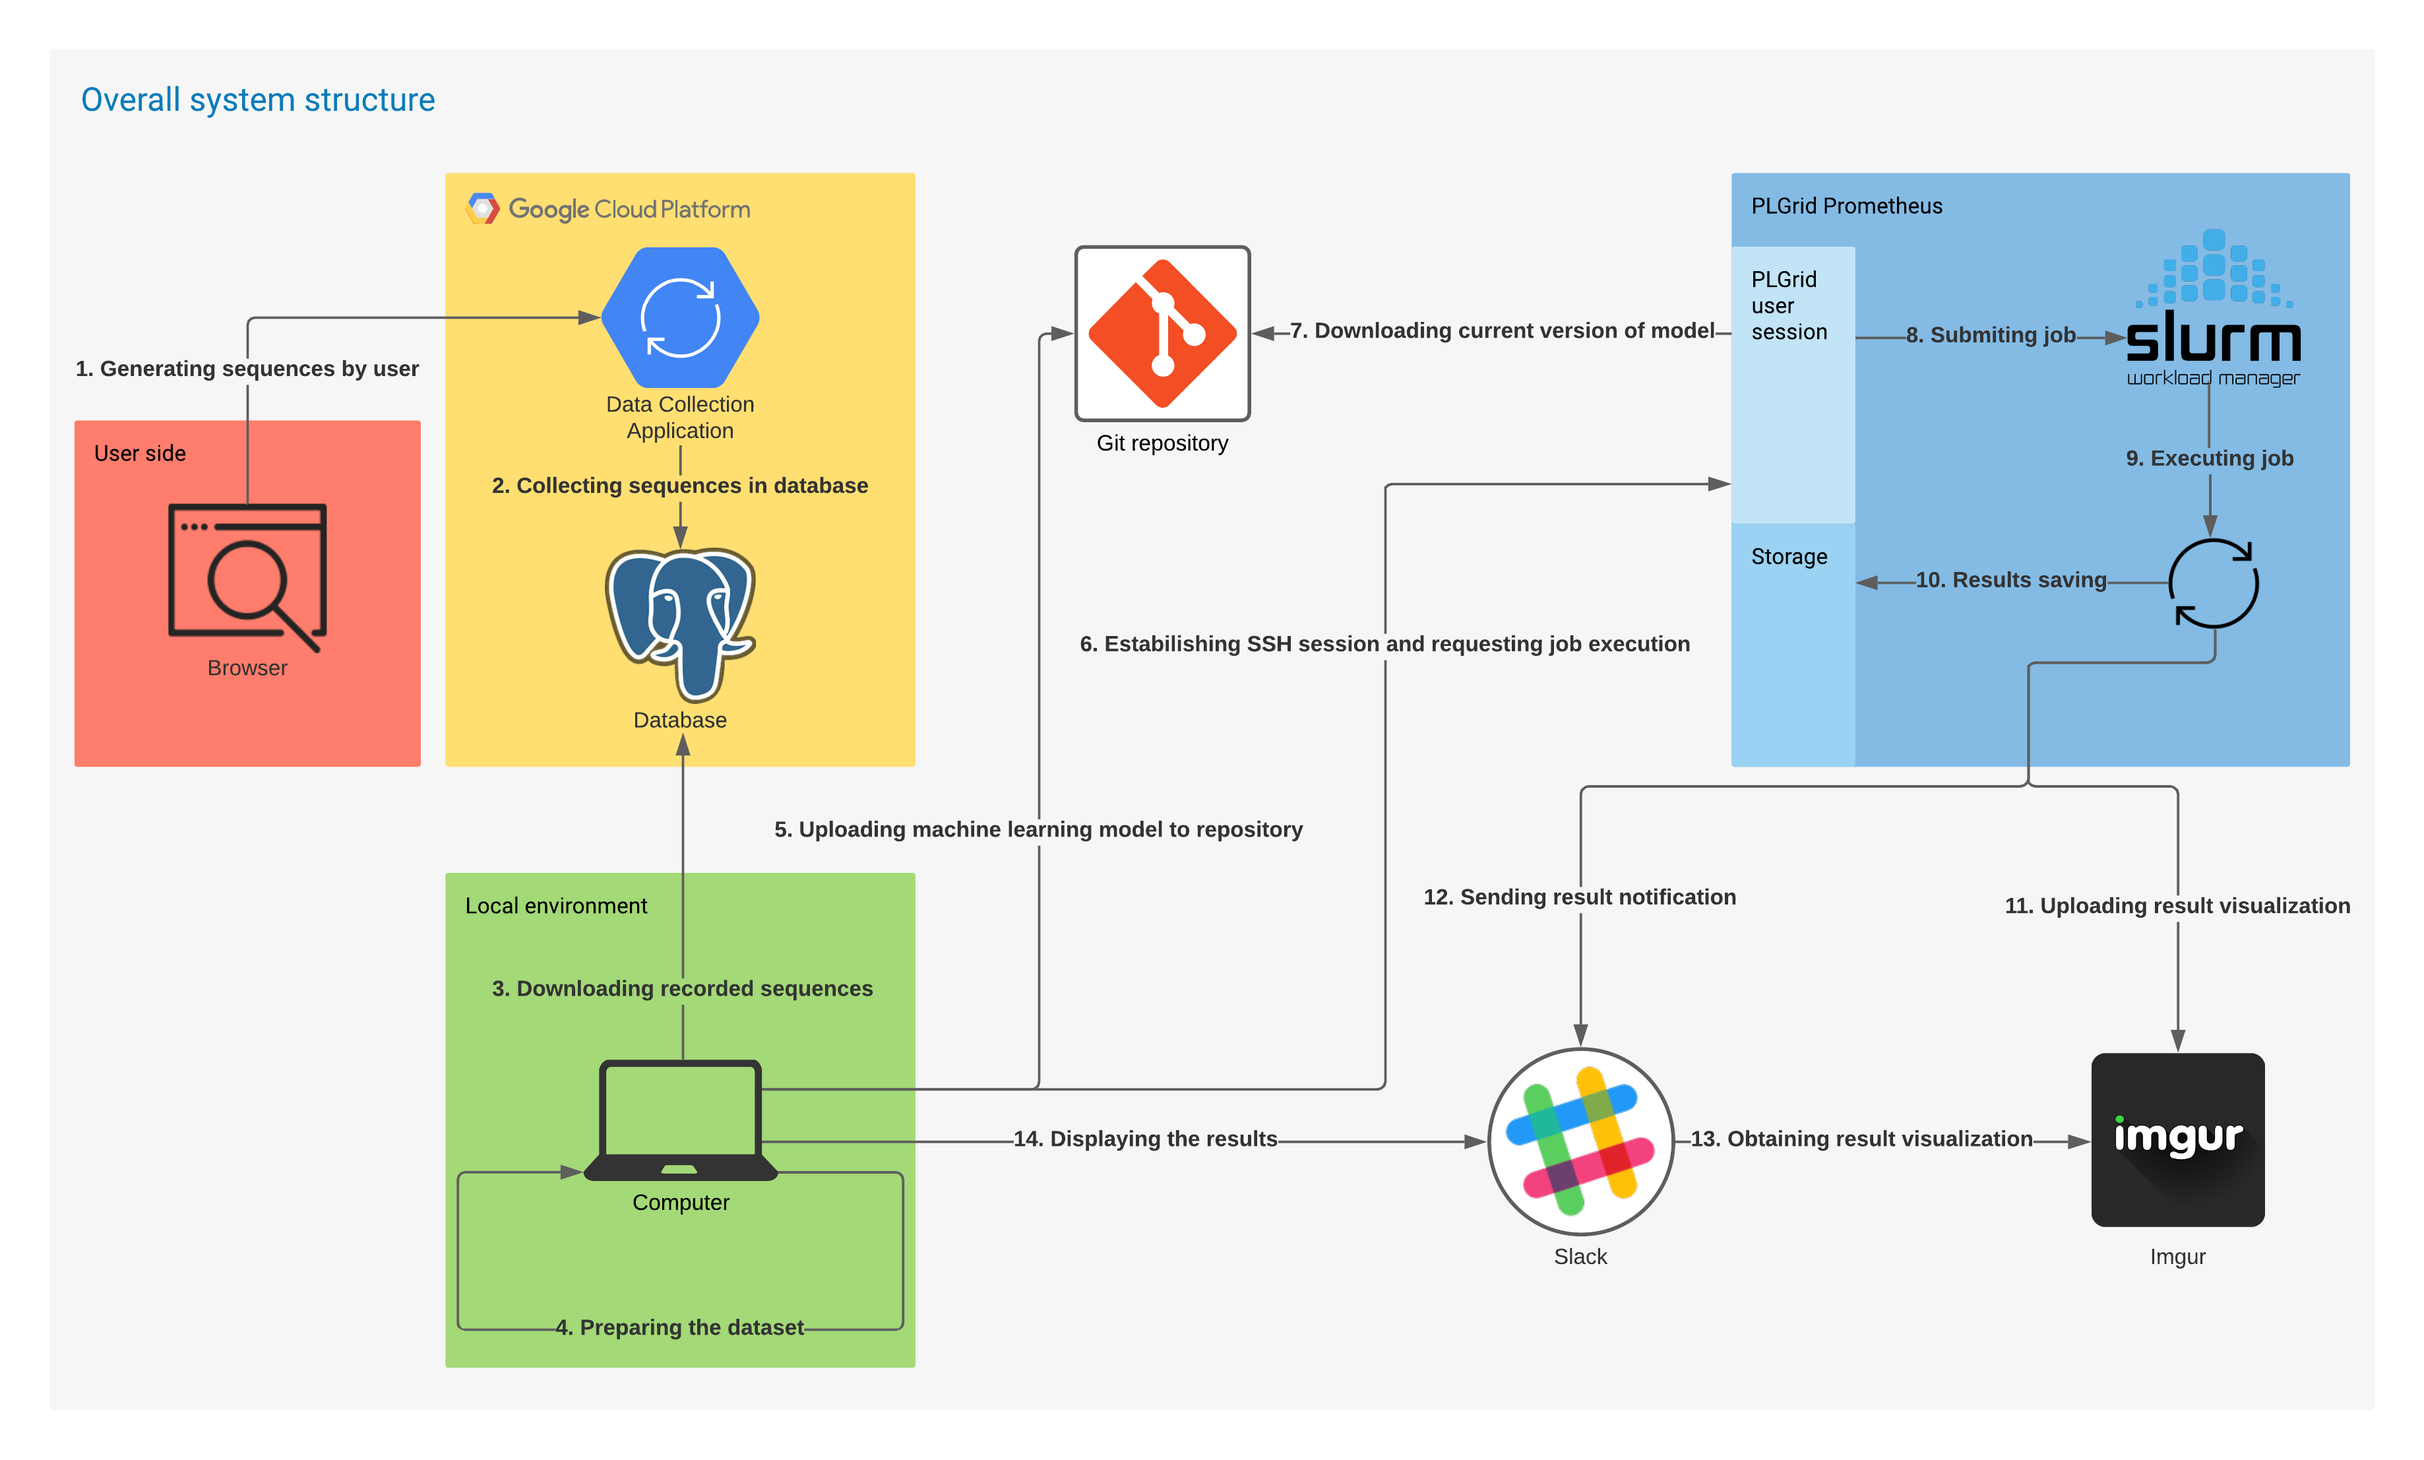
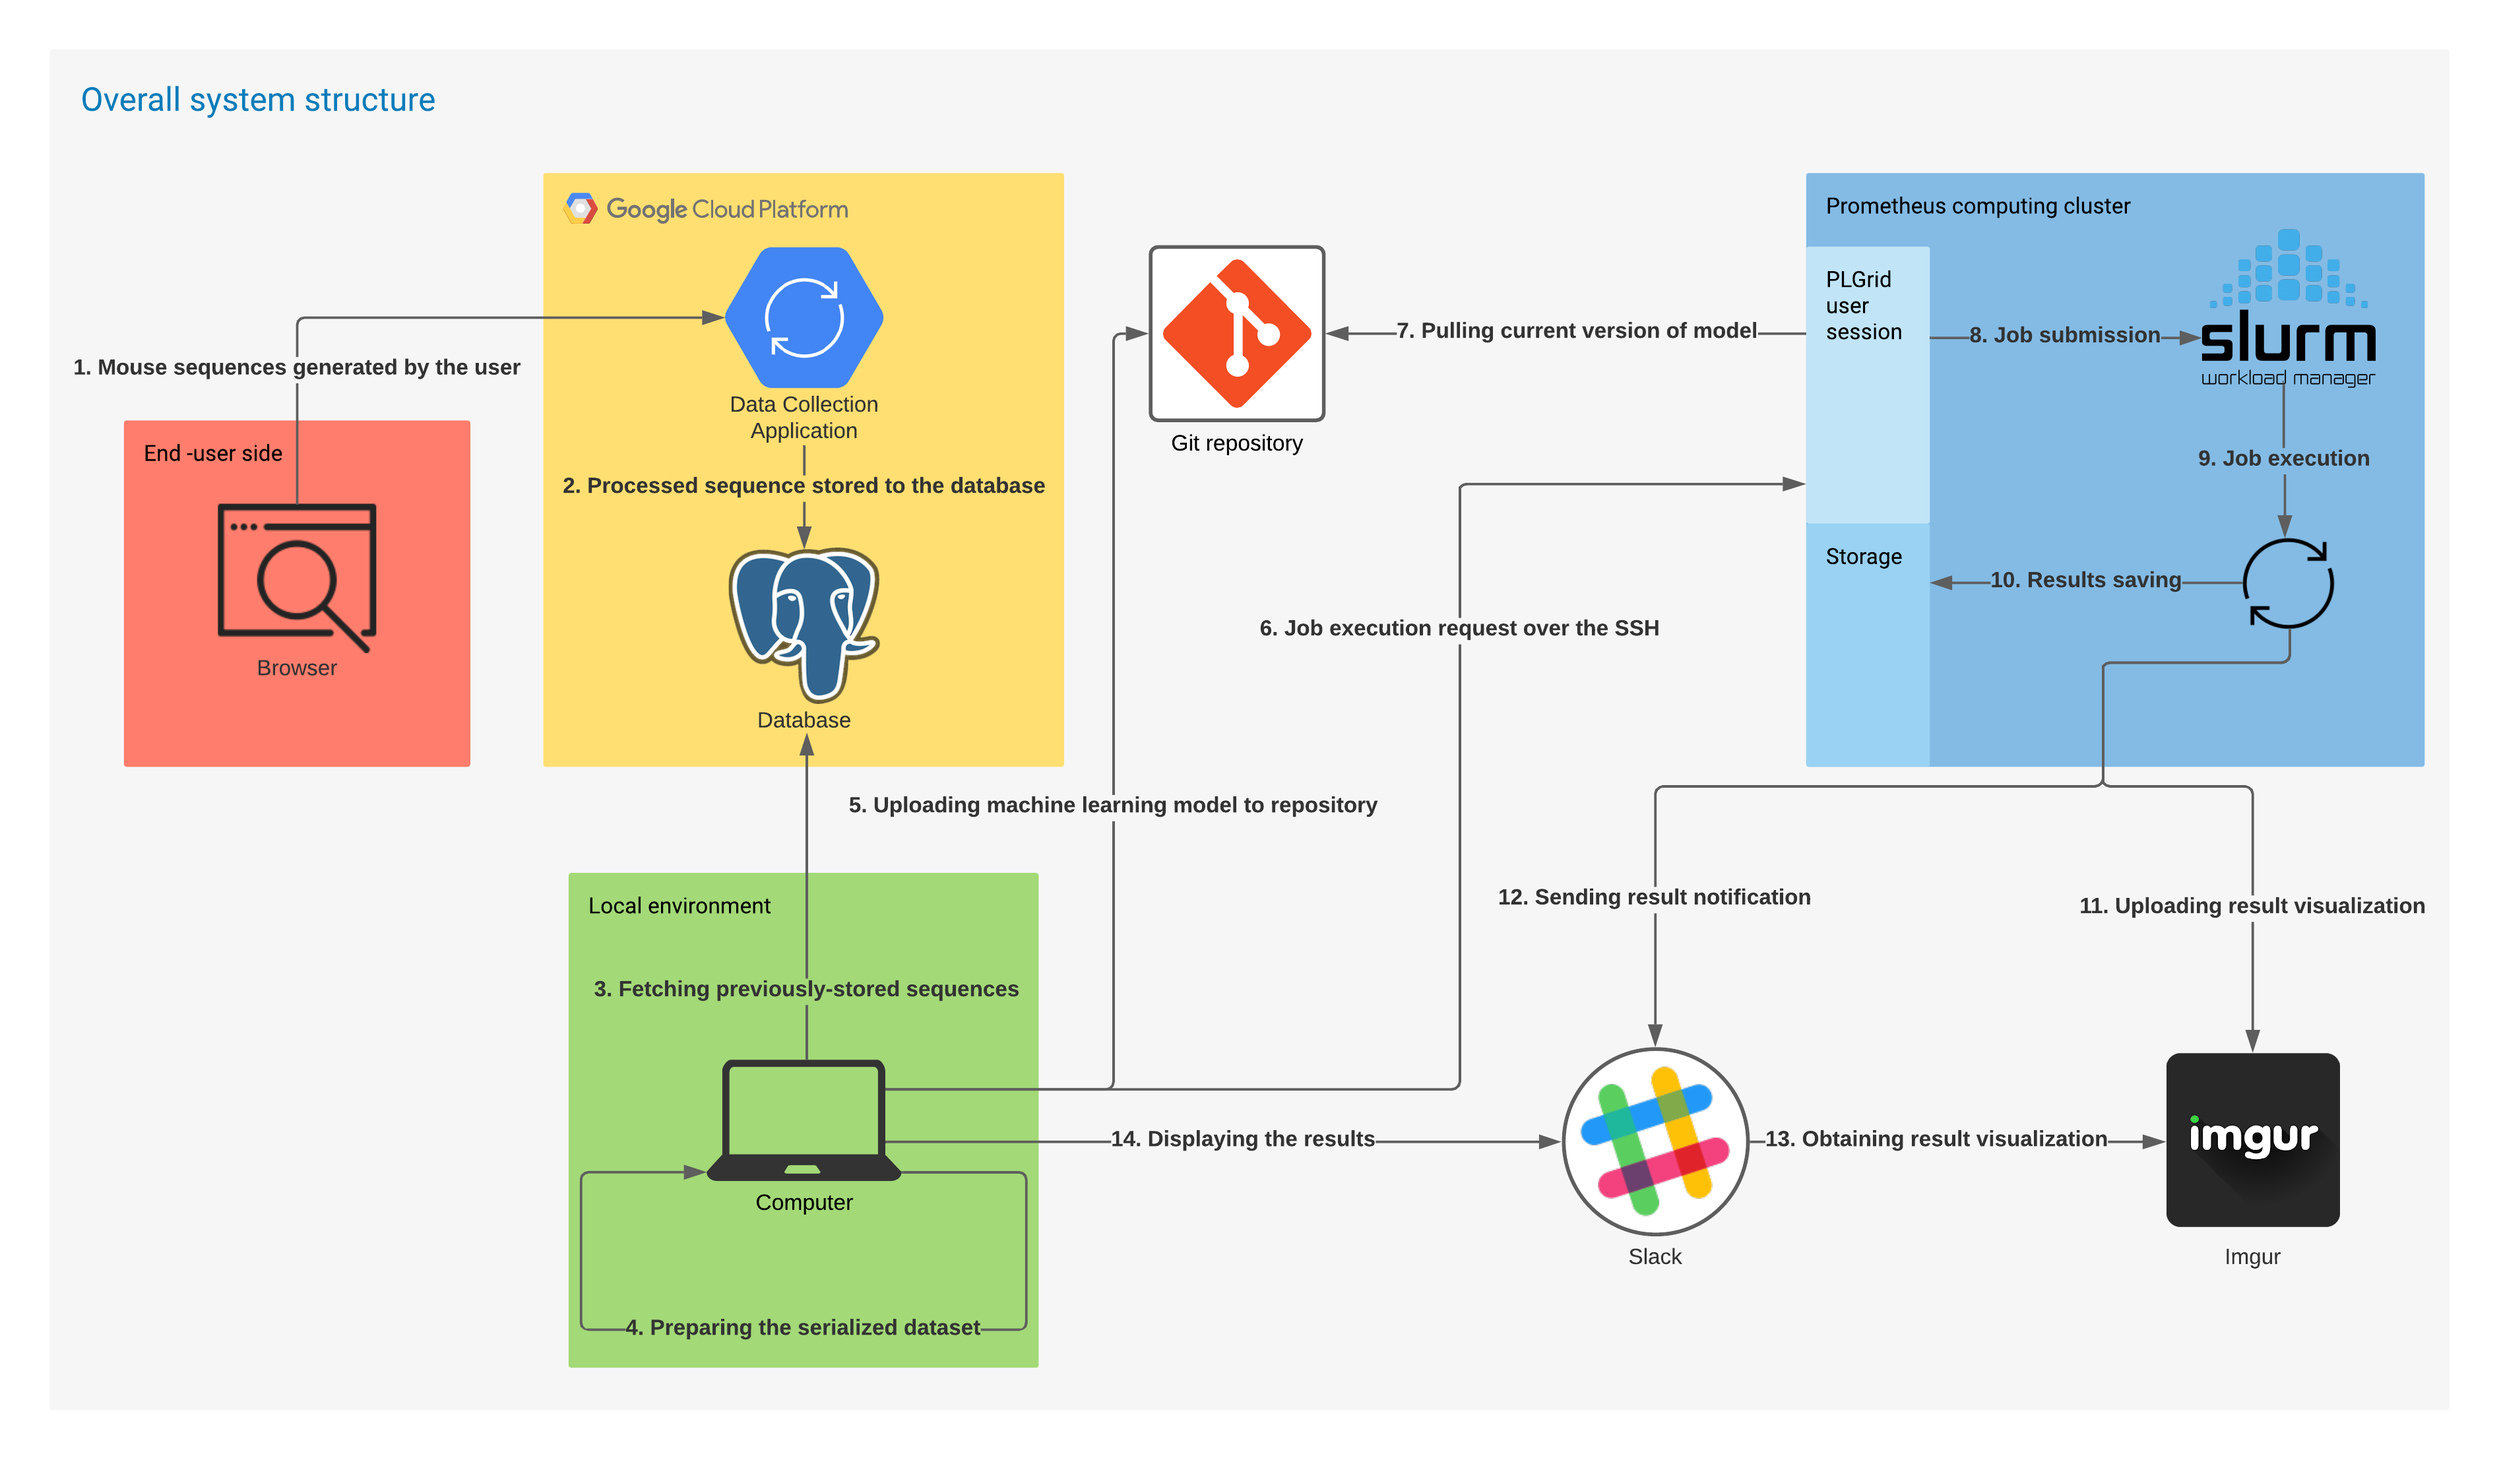
some review fixes

diff --git a/thesis/chapters/implementation/implementation.tex b/thesis/chapters/implementation/implementation.tex
@@ -1,5 +1,5 @@
 \chapter{Implementation}\label{ch:implementation}
-To fulfill assumptions of this work, the authors prepare a whole system which is able to collect and verify the mouse dynamics data.
+To fulfill the assumptions of this work, the authors prepared a whole system that is able to collect and verify the mouse dynamics data.
 The high-level flow of the system is presented in Fig.~\ref{fig:overall_system_structure} and provides the basis for further considerations.
 \begin{figure}[!hbt]
     \includegraphics[width=\linewidth]{resources/overall_system_structure}
@@ -7,19 +7,20 @@ The high-level flow of the system is presented in Fig.~\ref{fig:overall_system_s
     \label{fig:overall_system_structure}
 \end{figure}
 
-The entry point for the system is user's browser that allows the human user as well as human impersonating bot for access to the prepared website which is served in the Internet.
-The \mbox{Data Collection}\upperref{itm:data-collection} module which is persisted and operates within a cloud acts as a mouse dynamics data collector, which means that every single mouse event generated by user on the website is intercepted, transformed and stored in the underlying database (Fig.~\ref{fig:overall_system_structure}, pt. 1 and pt.2).
+The entry point for the system is the user's browser that allows the human user as well as a human impersonating bot for access to the prepared website which is hosted on the Internet.
+The \mbox{Data Collection}\upperref{itm:data-collection} module which is persisted and operates within a cloud acts as a mouse dynamics data collector, which means that every single mouse event generated by the user on the website is intercepted, transformed and stored in the underlying database (Fig.~\ref{fig:overall_system_structure}, pt. 1 and pt. 2).
 The administrator of presented system is able to retrieve the data from the database in any time (pt. 3).
 The downloaded data can be further processed (pt. 4) to the dataset which will be used in machine learning stage.
 The administrator of the system should prepare a machine learning model and upload it to the Git repository (pt. 5) which will be then obtained by computing cluster to perform computation using the model from the observed branch.
 Such an approach allows to work on the solution simultaneously by many data scientists and makes it possible to accelerate the research.
 The dataset should be uploaded to the computing cluster and persisted in the group's storage that allows to use it by many different paralleled computations (not included in the diagram due to decrease of readability).
-Each computation is requested from the local computer using prepared Git's alias that performs sequence of operations such us establishing the connection to the cluster, fetching the current version of code from the repository and submitting the job to the Slurm\upperref{itm:slurm} workload manager (pt. 6, 7, 8).
-The work of the cluster is fully asynchronous because each job is queued and therefore the completion time is unknown which is very inconvenient from the authors' point of view because according to the authors' knowledge there not exists any notification system which allows getting the information about the finished job.
+Each computation is requested from the local computer using prepared Git's 'deploy' alias that performs a sequence of operations such as establishing the connection to the cluster, fetching the current version of code from the repository and submitting the job to the Slurm\upperref{itm:slurm} workload manager (pt. 6, 7, 8).
+The work of the cluster is fully asynchronous because each job is queued and therefore the completion time is unknown.
+This is very inconvenient because there is no notification system that allows getting the information about the finished job.
 To overcome these limitations, the notification system is proposed as a part of Bot Detection\upperref{itm:bot-detection} module.
-The creation of such system enables the possibility for presenting the results of the computed job in the notification message as well as the graphs prepared based on the output of the job.
+The creation of such a system enables the possibility for presenting the results of the computed job in the message as well as the graphs prepared based on the output of the job.
 To provide the possibility of sending the images, the notification system uses the external image hosting website called Imgur\upperref{itm:imgur} which allows to upload pictures to the server and host them under the generated \gls{url} (pt. 11).
-The results and the graphs are combined into Slack's\upperref{itm:slack} message and then sent to the previously prepared Slack's channel by using the Slack's webhook \gls{api} (pt. 12, 13).
+The results and the graphs are combined into Slack's\upperref{itm:slack} message and then sent to the previously prepared channel by using the webhook \gls{api} (pt. 12, 13).
 
 The further subchapters treats about the implementation details, at the beginning the Data Collection module is described along with the cloud configuration and performance tests, further, the bot which impersonates the human user and finally the machine learning model alongside the tools such as, among others, a notification module.
 
